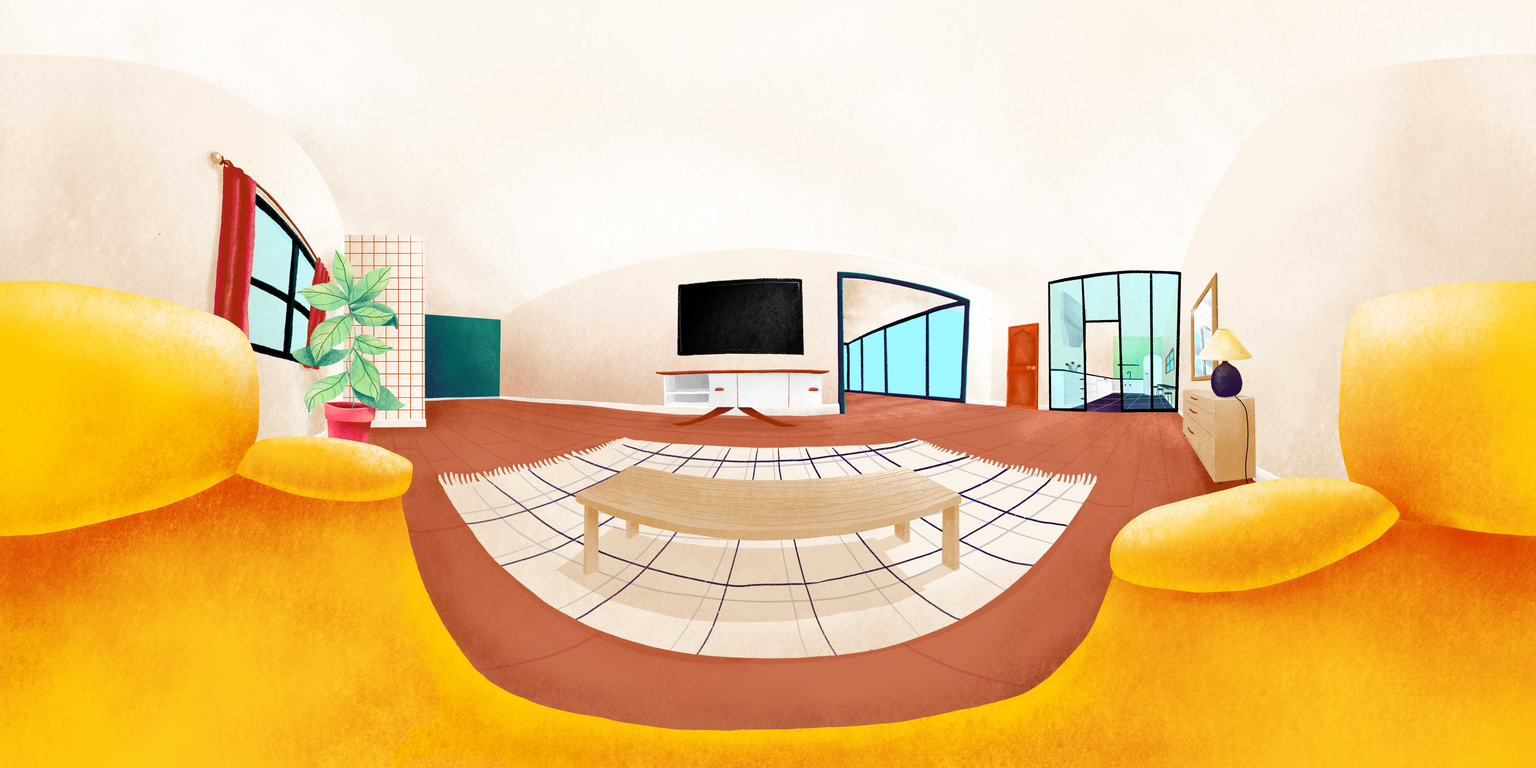
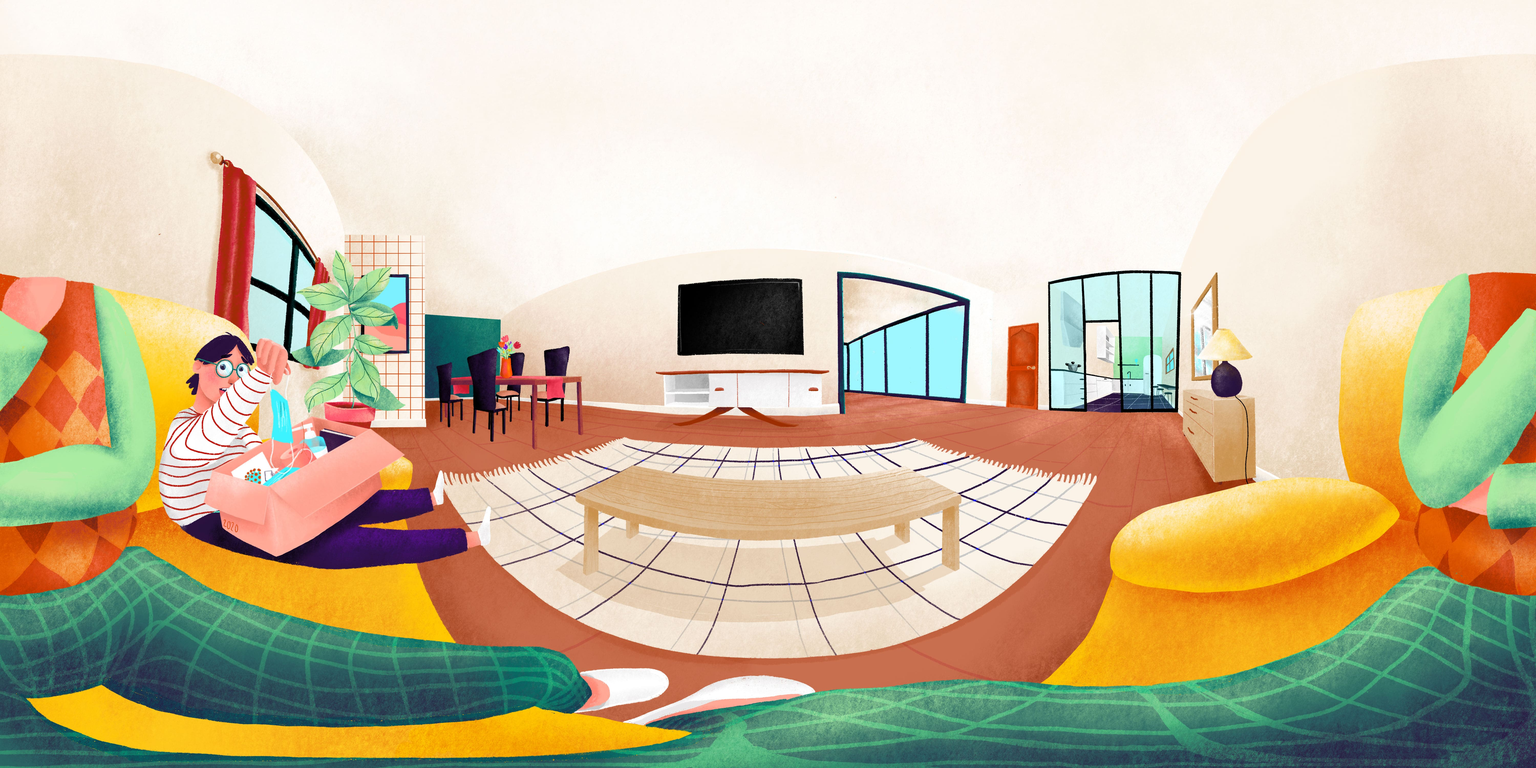
changement 360 img et ajout fleur

diff --git a/src/components/Scene.vue b/src/components/Scene.vue
@@ -9,9 +9,8 @@ import * as THREE from 'three'
 import { OrbitControls } from 'three/examples/jsm/controls/OrbitControls'
 import router from '../router/index'
 
-const info = require('../assets/img/brevage.svg')
-const info2 = require('../assets/img/manger.svg')
-const info3 = require('../assets/img/info.png')
+// const info = require('../assets/img/brevage.svg')
+const fleur = require('../assets/img/fleurs.png')
 // const url = './'
 // const url2 = 'https://www.robinleroux.fr'
 // const url3 = './choices'
@@ -19,9 +18,8 @@ const info3 = require('../assets/img/info.png')
 export default {
 	mounted () {
 		this.init()
-		this.addCoronaObject(new THREE.Vector3(0.9779594454558286, 0.056559551981131675, 0.20098840793295), 'bouton', info)
-		this.addCoronaObject(new THREE.Vector3(-0.8552268622038501, 0.0684633860882658, 0.5137117663926783), 'bouton', info2)
-		this.addCoronaObject(new THREE.Vector3(0.8832757217121453, -0.45176804771973644, -0.1254178236670794), 'bouton 3', info3)
+		// this.addCoronaObject(new THREE.Vector3(0.9779594454558286, 0.056559551981131675, 0.20098840793295), 'bouton', info)
+		this.addCoronaObject(new THREE.Vector3(0.6351041777159825, 0.096559551981131675, -0.7707364023383707), 'bouton', fleur)
 	},
 	methods: {
 		init () {
@@ -47,8 +45,8 @@ export default {
 			})
 
 			// Display axes
-			const axesHelper = new THREE.AxesHelper(100)
-			this.scene.add(axesHelper) // The X axis is red. The Y axis is green. The Z axis is blue.
+			// const axesHelper = new THREE.AxesHelper(100)
+			// this.scene.add(axesHelper) // The X axis is red. The Y axis is green. The Z axis is blue.
 
 			// Orbit controls
 			const controls = new OrbitControls(this.camera, this.$refs.canvas)
@@ -95,7 +93,7 @@ export default {
 
 			// this.position = new THREE.Vector3(30, 0, 0)
 			sprite.position.copy(position.clone().normalize().multiplyScalar(30))
-			sprite.scale.multiplyScalar(2)
+			sprite.scale.multiplyScalar(4)
 		},
 
 		onClick (e) {
@@ -120,16 +118,6 @@ export default {
 					// window.location.assign(route)
 					// window.location = intersect.object.userData.URL
 					router.push('/choices')
-				}
-				if (intersect.object.type === 'Sprite' && intersect.object.name === 'bouton 3') {
-					console.log(`nom : ${intersect.object.name}`)
-					// console.log(`route : ${intersect.object.userData.route}`)
-					console.log(intersect.object)
-					// const route = intersect.object.userData.route // Avoir accès a l'objet route dans intersect
-					// window.open(route)
-					// window.location.assign(route)
-					// window.location = intersect.object.userData.URL
-					router.push('/')
 				}
 			})
 
